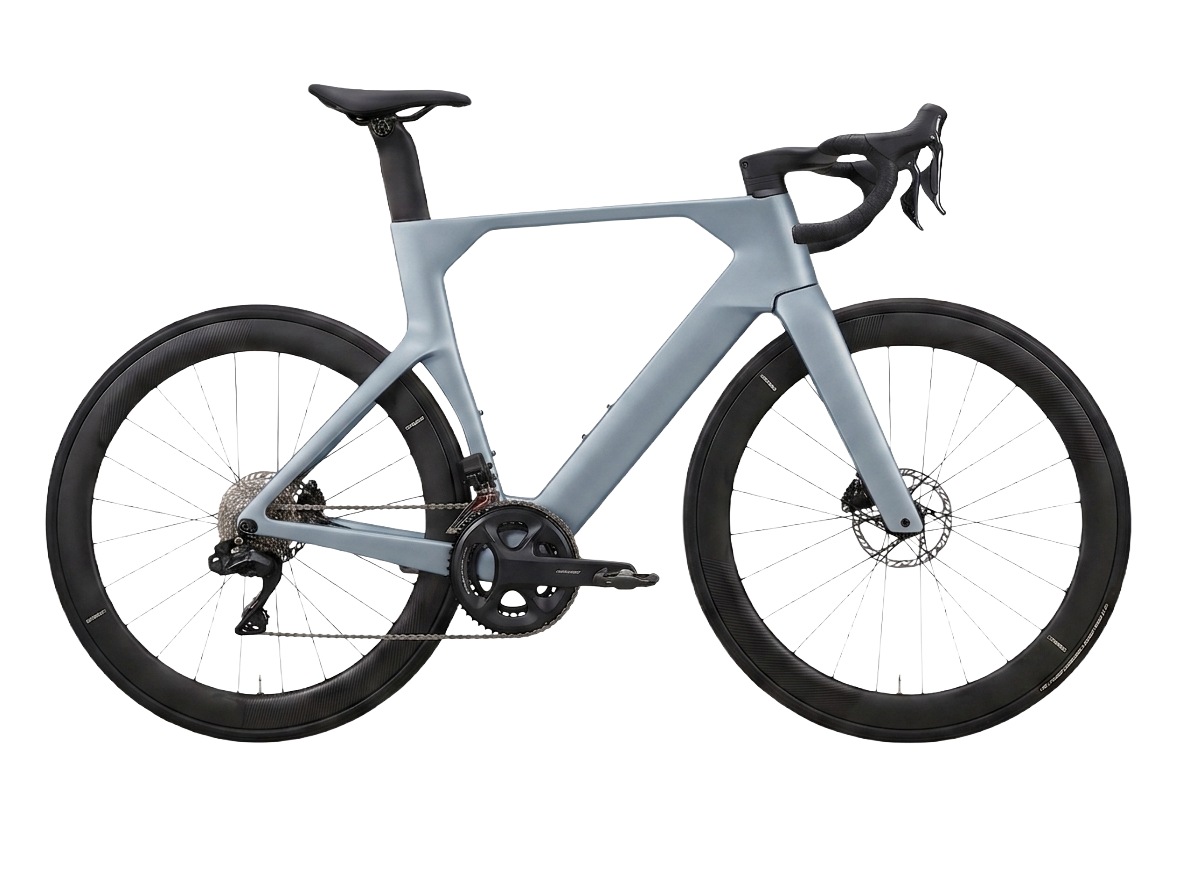
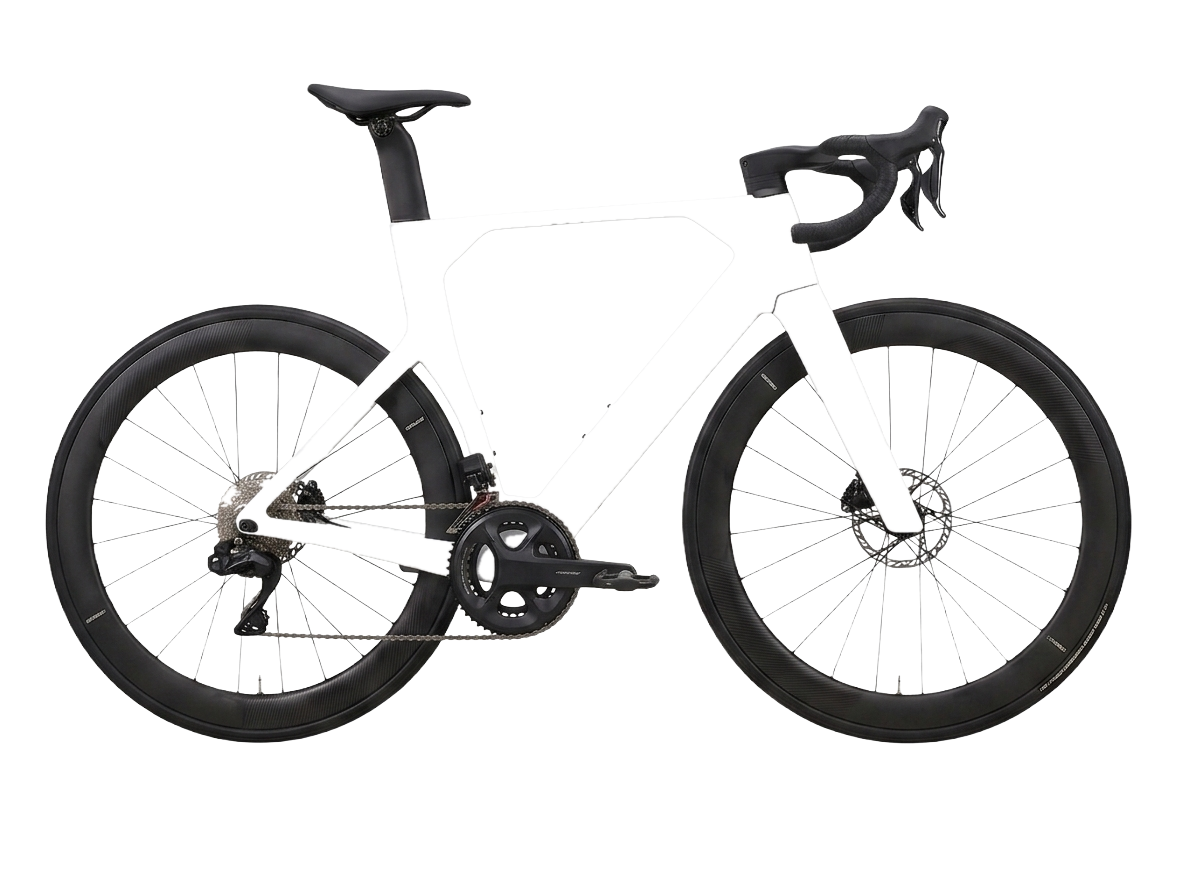
Colour studio: derive the Aero paint passes from the real renders
The studio's frame passes were placeholders. Derive them instead from the
snow-white studio renders, which are the same frame at the same camera in two
finishes:

  frame.shade  matte luminance / white point (p99), alpha = frame mask
  frame.spec   (metallic - matte) / (1 - matte), white with intensity in alpha
  base         the render with the frame region knocked out

Snow white is what makes this work — albedo ~1 and saturation p50 0.010, so the
matte luminance is the shading term with no hue to divide out.

The spec pass inverts the screen blend rather than storing the raw difference:
screening white at alpha a gives dst + a*(1 - dst), so a = delta / (1 - matte),
floored at 0.12 so near-white pixels saturate instead of blowing up. It also
has to stay transparent where there is no highlight — canvas blends with the
source-over alpha rule, so an opaque spec would make the region canvas opaque
and stamp a black rectangle over the bike.

The mask is the one hand-authorable input, kept in product/ (not public/) so it
does not deploy unused; the engine reads the mask from frame.shade's alpha.
Re-run the script after editing it. The automatic mask is the PSD frame
isolation minus the dark groupset, which the luminance histogram separates
cleanly: 1.17% of the frame left unpainted as hairline seams, ~0 bleed onto
the drivetrain.

Changed region(s): [[0.1547, 0.1562, 0.8043, 0.7188], [0.7115, 0.125, 0.8043, 0.25], [0.3094, 0.125, 0.3403, 0.1562]]

diff --git a/src/paint/products.paint.ts b/src/paint/products.paint.ts
@@ -2,9 +2,11 @@
    Paintable-product registry — maps each product/angle to its asset set.
 
    Assets live under public/img/paint/<product>/<angle>/. Today only aero/side
-   is authored (placeholder layers from scripts/gen-paint-placeholders.py, to be
-   replaced by the real 3D export). Add angles/products by dropping in the passes
-   and extending `angles` here.
+   is authored: the passes are derived from the snow-white studio renders by
+   scripts/derive-paint-passes.py (matte = AO, metallic - matte = specular),
+   masked by product/prisma-aero-side-frame.mask.png. Re-run that script after
+   editing the mask. Add angles/products by dropping in the passes and extending
+   `angles` here.
    ---------------------------------------------------------------- */
 import type { PaintableProduct } from "./types";
 

diff --git a/scripts/derive-paint-passes.py b/scripts/derive-paint-passes.py
@@ -1,0 +1,195 @@
+#!/usr/bin/env python3
+"""Derive the paint engine's render passes from the snow-white studio renders.
+
+The colour studio (src/paint/engine.ts) recolours a region with
+`(colour x shade) screened-with spec`, so it needs three registered layers:
+
+    base             non-paintable parts final; the paintable region transparent
+    frame.shade      RGB = AO / luminance, A = the region mask
+    frame.spec       specular pass on black
+
+We don't have a 3D export of those passes. We do have the same frame, same
+camera, in two finishes, plus a Photoshop isolation of the frame:
+
+    matte render     white paint scatters diffusely  -> reads as AO
+    metallic render  same colour, same light         -> matte + specular
+    PSD layer 2      frame + fork + drivetrain cut out of the background
+
+Snow white is what makes this work: albedo is ~1 and saturation ~0.01, so the
+matte luminance IS the shading term, with no hue to divide out. The specular is
+then just the positive part of (metallic - matte).
+
+    shade = matte / white_point      spec = max(metallic - matte, 0)
+
+MASK. `frame.mask.png` is the authoring input and the one file worth redoing by
+hand -- everything else is derived from it. A hand-authored mask on disk always
+wins; pass --rederive to overwrite it with the automatic one. The automatic mask
+is the PSD isolation minus the dark drivetrain, which the luminance histogram
+separates cleanly (frame ~190-245, drivetrain <100, nothing between).
+
+Usage:
+    python3 scripts/derive-paint-passes.py              # keep existing mask
+    python3 scripts/derive-paint-passes.py --rederive   # rebuild the mask too
+"""
+
+from __future__ import annotations
+
+import argparse
+import sys
+from pathlib import Path
+
+import numpy as np
+from PIL import Image
+from scipy import ndimage
+
+ROOT = Path(__file__).resolve().parent.parent
+PRODUCT = ROOT / "product"
+OUT = ROOT / "public/img/paint/aero/side"
+
+MATTE = PRODUCT / "prisma-aero-snow-white-matte-transparent-side.png"
+METALLIC = PRODUCT / "prisma-aero-snow-white-metallic-transparent-side.png"
+PSD = PRODUCT / "prisma-aero-snow-white-matte-transparent-side.psd"
+
+# Authoring input, not a shipping asset -- it lives with the other source art in
+# product/ so it doesn't deploy to the CDN unused. Nothing at runtime loads it;
+# the engine reads the mask from frame.shade's alpha channel.
+MASK_PATH = PRODUCT / "prisma-aero-side-frame.mask.png"
+
+# Frame paint sits at luminance ~190-245, the black groupset below ~100. Cut in
+# the empty valley between them.
+DRIVETRAIN_LUM = 150.0
+# Drop specks / plug pinholes smaller than this (px) after thresholding.
+SPECK_AREA = 120
+# The two renders are separately rendered, not two passes of one camera, so
+# their silhouettes disagree by a hair. Erode before differencing or the
+# mismatch shows up as a bright rim in the specular pass.
+SPEC_ERODE = 2
+# Inverting the screen blend divides by (1 - matte), which explodes where the
+# frame is already near white. Floor the divisor so those pixels saturate
+# gracefully instead of going to full-strength highlight.
+SPEC_HEADROOM_FLOOR = 0.12
+# White point for the shade pass: percentile of frame luminance mapped to 1.0.
+# Using a high percentile rather than the max keeps a stray blown highlight from
+# darkening the whole frame.
+WHITE_POINT_PCT = 99.0
+
+
+def load_rgba(path: Path) -> np.ndarray:
+    if not path.exists():
+        sys.exit(f"missing input: {path.relative_to(ROOT)}")
+    return np.asarray(Image.open(path).convert("RGBA")).astype(np.float64)
+
+
+def psd_frame_isolation(path: Path) -> np.ndarray:
+    """Alpha of the PSD's frame layer (frame + fork + drivetrain, no wheels)."""
+    im = Image.open(path)
+    im.seek(1)
+    return np.asarray(im.convert("RGBA")).astype(np.float64)[..., 3]
+
+
+def clean(mask: np.ndarray, min_area: int) -> np.ndarray:
+    """Drop islands and fill holes below `min_area` pixels."""
+    for invert in (False, True):
+        work = ~mask if invert else mask
+        lab, n = ndimage.label(work)
+        if n:
+            areas = ndimage.sum(work, lab, range(1, n + 1))
+            small = np.isin(lab, [i + 1 for i, a in enumerate(areas) if a < min_area])
+            work = work & ~small
+        mask = ~work if invert else work
+    return mask
+
+
+def derive_mask(matte: np.ndarray) -> np.ndarray:
+    """PSD isolation minus the dark groupset, cleaned and feathered.
+
+    Returns a float mask in [0,1] with soft edges: the render is anti-aliased,
+    so a hard mask would leave a jagged seam against `base`.
+    """
+    iso = psd_frame_isolation(PSD)
+    lum = matte[..., :3].mean(axis=2)
+
+    hard = (iso > 128) & (lum >= DRIVETRAIN_LUM) & (matte[..., 3] > 128)
+    hard = clean(hard, SPECK_AREA)
+
+    # Feather by one pixel, then re-multiply by the render's own alpha so the
+    # mask can never claim pixels that are transparent in the source.
+    soft = ndimage.gaussian_filter(hard.astype(np.float64), sigma=0.8)
+    return np.clip(soft, 0, 1) * (matte[..., 3] / 255.0)
+
+
+def main() -> None:
+    ap = argparse.ArgumentParser()
+    ap.add_argument(
+        "--rederive",
+        action="store_true",
+        help="rebuild frame.mask.png instead of using the one on disk",
+    )
+    args = ap.parse_args()
+
+    matte = load_rgba(MATTE)
+    metallic = load_rgba(METALLIC)
+    if matte.shape != metallic.shape:
+        sys.exit(f"renders disagree on size: {matte.shape} vs {metallic.shape}")
+    OUT.mkdir(parents=True, exist_ok=True)
+
+    if MASK_PATH.exists() and not args.rederive:
+        mask = np.asarray(Image.open(MASK_PATH).convert("L")).astype(np.float64) / 255.0
+        if mask.shape != matte.shape[:2]:
+            sys.exit(f"{MASK_PATH.name} is {mask.shape}, renders are {matte.shape[:2]}")
+        print(f"mask     using existing {MASK_PATH.relative_to(ROOT)} (--rederive to replace)")
+    else:
+        mask = derive_mask(matte)
+        Image.fromarray((mask * 255).round().astype(np.uint8), "L").save(MASK_PATH)
+        print(f"mask     derived -> {MASK_PATH.relative_to(ROOT)}")
+
+    solid = mask > 0.5
+    if not solid.any():
+        sys.exit("mask is empty - nothing to paint")
+
+    # --- shade: RGB = AO, A = mask -------------------------------------------
+    lum = matte[..., :3].mean(axis=2)
+    white = np.percentile(lum[solid], WHITE_POINT_PCT)
+    ao = np.clip(lum / white, 0, 1)
+    shade = np.zeros((*mask.shape, 4), np.uint8)
+    shade[..., :3] = (ao[..., None] * 255).round().astype(np.uint8)
+    shade[..., 3] = (mask * 255).round().astype(np.uint8)
+    Image.fromarray(shade, "RGBA").save(OUT / "frame.shade.png")
+
+    # --- spec: white, with the highlight strength in alpha ---------------------
+    # The engine screens this pass, and screening white at alpha a over dst
+    # gives `dst + a*(1 - dst)`. So the alpha that reproduces an observed
+    # highlight is the inverse of that, not the raw difference:
+    #
+    #     a = (metallic - matte) / (1 - matte)
+    #
+    # RGB stays pure white; alpha alone carries the intensity. Keeping the pass
+    # transparent where there is no highlight matters -- an opaque spec would
+    # make the whole region canvas opaque and stamp a black rectangle over the
+    # bike, because canvas composites blend modes with the source-over alpha
+    # rule.
+    eroded = ndimage.binary_erosion(solid, iterations=SPEC_ERODE)
+    m_lum = matte[..., :3].mean(axis=2) / 255.0
+    g_lum = metallic[..., :3].mean(axis=2) / 255.0
+    headroom = np.maximum(1.0 - m_lum, SPEC_HEADROOM_FLOOR)
+    alpha = np.clip((g_lum - m_lum) / headroom, 0, 1) * eroded
+    spec = np.zeros((*mask.shape, 4), np.uint8)
+    spec[..., :3] = 255
+    spec[..., 3] = (alpha * 255).round().astype(np.uint8)
+    Image.fromarray(spec, "RGBA").save(OUT / "frame.spec.png")
+
+    # --- base: everything the studio does not repaint --------------------------
+    base = matte.copy()
+    base[..., 3] *= 1.0 - mask
+    Image.fromarray(base.round().astype(np.uint8), "RGBA").save(OUT / "base.png")
+
+    frame_px = int(solid.sum())
+    print(f"white pt {white:6.1f}  (p{WHITE_POINT_PCT:g} of frame luminance)")
+    print(f"frame    {frame_px:,} px ({frame_px / mask.size * 100:.1f}% of canvas)")
+    hot = alpha[eroded]
+    print(f"spec     alpha p50 {np.percentile(hot, 50):.3f}  p90 {np.percentile(hot, 90):.3f}  max {hot.max():.3f}")
+    print(f"wrote    {OUT.relative_to(ROOT)}/{{base,frame.shade,frame.spec}}.png")
+
+
+if __name__ == "__main__":
+    main()
